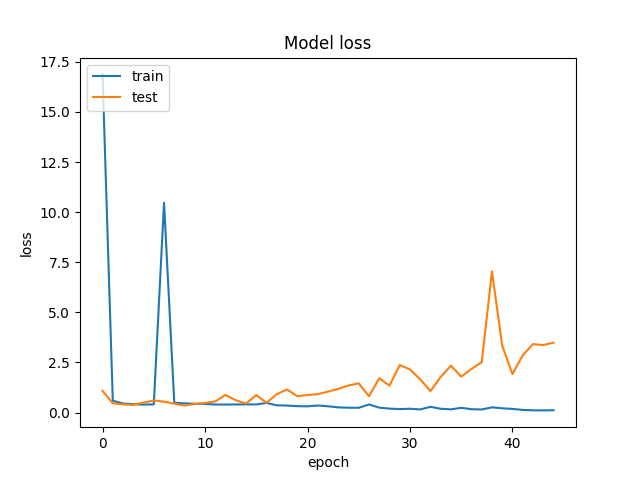
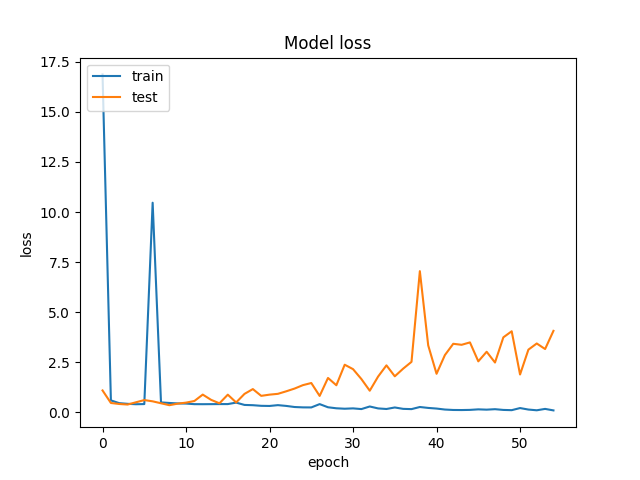
started to run 500by500 pics

diff --git a/src/hyperparams.py b/src/hyperparams.py
@@ -10,13 +10,13 @@ neural network.
 import datetime as dt
 
 save_model      = False
-single_input    = True
-iter_num        = '6'
+single_input    =False
+iter_num        = '7'
 val_split       = 0.1
-iter_tag        = '0.1split'
+iter_tag        = ''
 iteration       = iter_num + '_' + iter_tag
 epochs          = 100
-target_w        = 224
+target_w        = 500
 target_h        = target_w
 title           = dt.datetime.now().strftime("%Y-%m-%d_%H:%M") + \
                     '_' + iteration + '_' + str(epochs) + \
